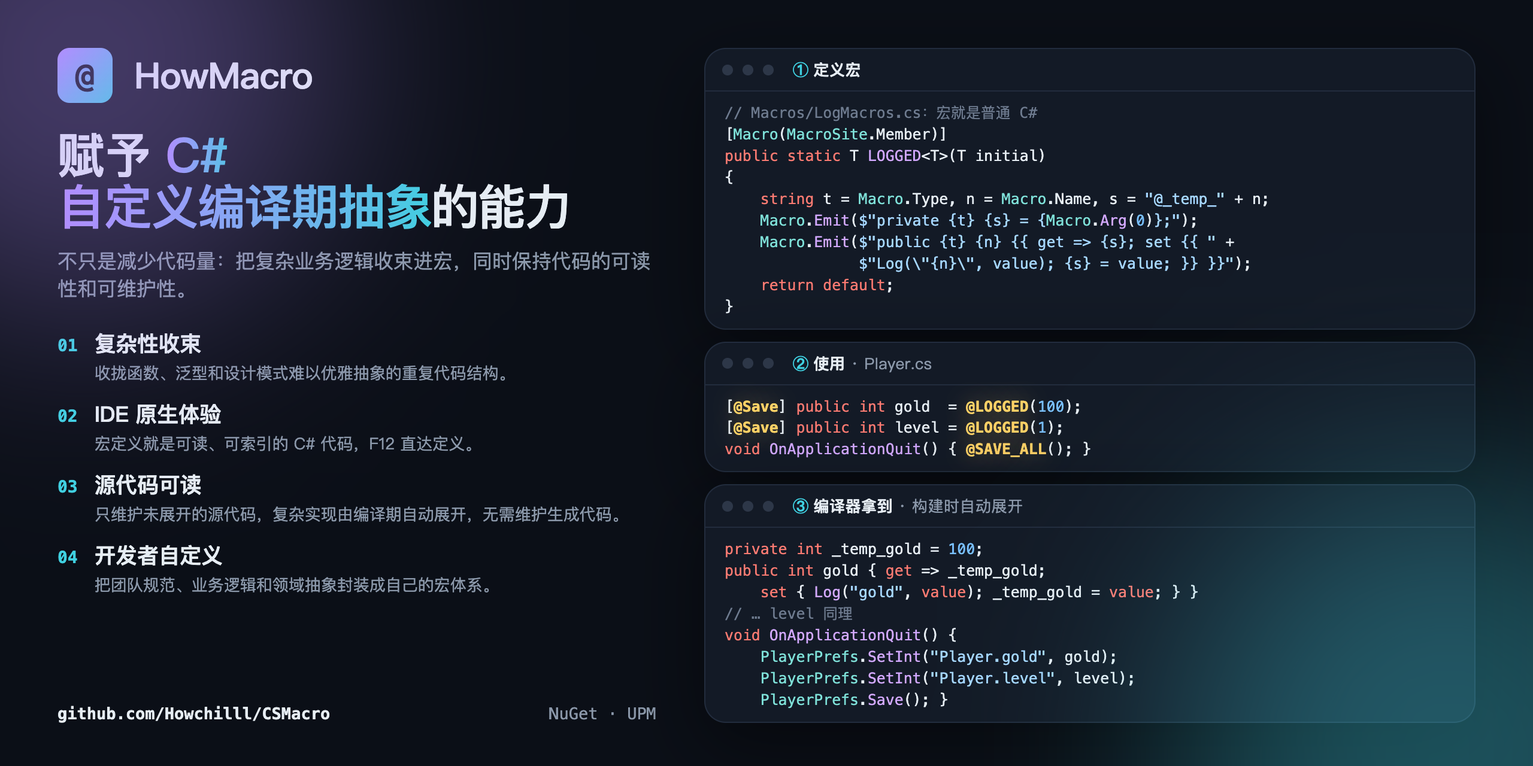
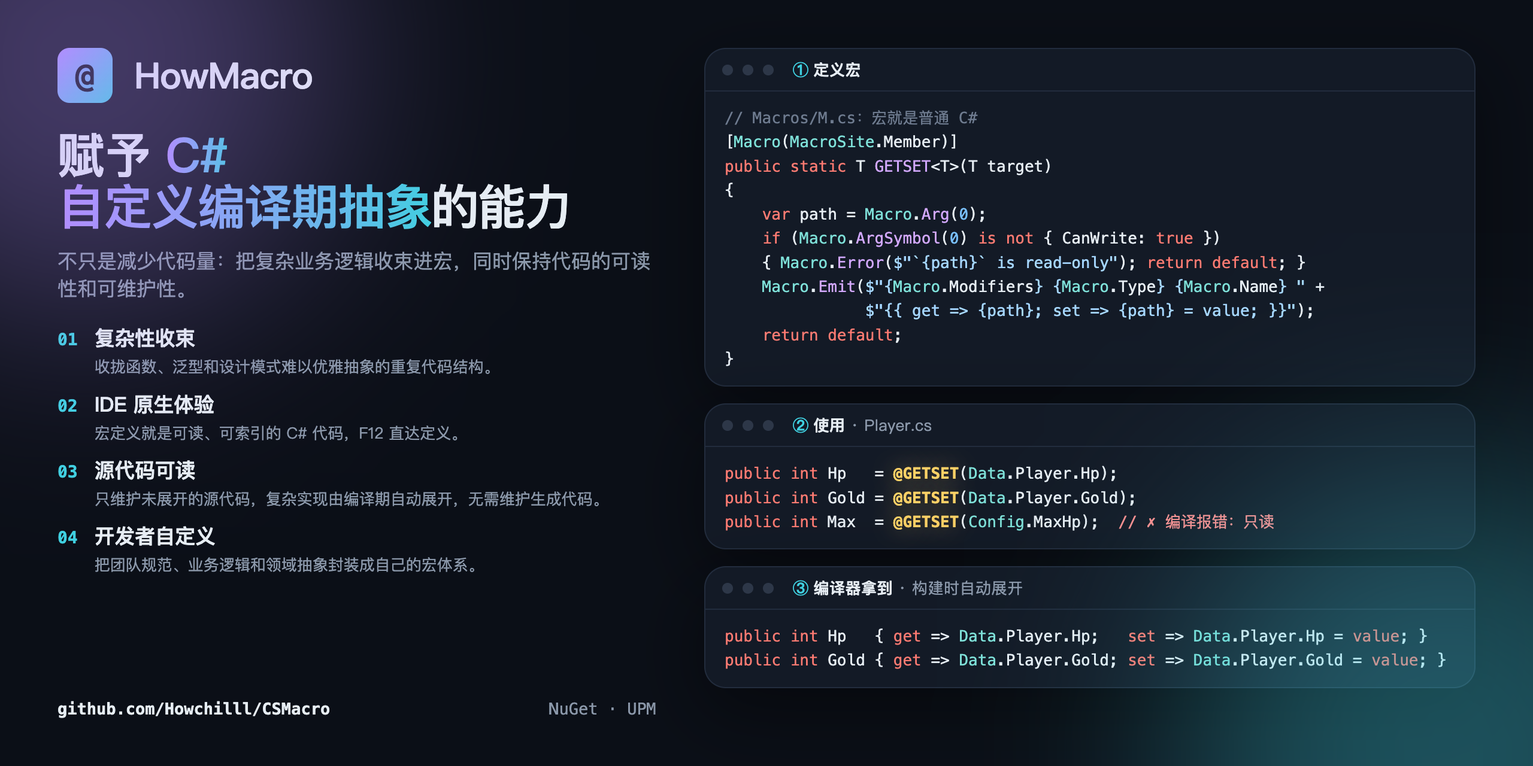
Promo images: use the GETSET example instead of Save

diff --git a/docs/promo/banner.html b/docs/promo/banner.html
@@ -5,11 +5,11 @@
   .left { display: flex; flex-direction: column; }
   .mark { width: 46px; height: 46px; font-size: 27px; } .name { font-size: 30px; }
   h1 { font-size: 40px; margin-top: 22px; } .tag { font-size: 16.5px; margin-top: 12px; }
-  .vals { margin-top: 22px; row-gap: 12px; } .val .n { font-size: 14px; } .val h3 { font-size: 18px; } .val p { font-size: 13.5px; }
-  .foot { margin-top: auto; display: flex; justify-content: space-between; font-size: 13.5px; }
-  .right { display: flex; flex-direction: column; gap: 10px; }
+  .vals { margin-top: 18px; row-gap: 10px; } .val .n { font-size: 14px; } .val h3 { font-size: 17px; } .val p { font-size: 13px; }
+  .foot { margin-top: auto; padding-top: 10px; display: flex; justify-content: space-between; font-size: 13.5px; }
+  .right { display: flex; flex-direction: column; gap: 14px; min-width: 0; }
   .card .bar { font-size: 13px; padding: 8px 14px; } .dot { width: 9px; height: 9px; }
-  pre { font-size: 12.4px; line-height: 1.45; padding: 9px 16px; }
+  pre { font-size: 13px; line-height: 1.55; padding: 12px 16px; }
 </style></head><body>
 <div class="glow g1"></div><div class="glow g2"></div>
 <div class="left">
@@ -19,31 +19,26 @@
 <div class="vals"><div class="val"><span class="n">01</span><h3>Compress complexity</h3><p>Fold repeated structures that functions, generics and patterns can't abstract cleanly.</p></div>
 <div class="val"><span class="n">02</span><h3>IDE&#8209;native</h3><p>Macros are plain C#: readable, indexed, F12 jumps to the definition.</p></div>
 <div class="val"><span class="n">03</span><h3>Source stays yours</h3><p>You maintain the unexpanded code. Expansion happens at build time; no generated code to keep.</p></div>
-<div class="val"><span class="n">04</span><h3>Your own macro system</h3><p>Package team conventions, business rules and domain abstractions as macros.</p></div></div>
+<div class="val"><span class="n">04</span><h3>Your own macro system</h3><p>Package team conventions, business rules and domain logic as macros.</p></div></div>
 <div class="foot"><span><b>github.com/Howchilll/CSMacro</b></span><span>NuGet · UPM</span></div>
 </div>
 <div class="right"><div class="card c1"><div class="bar"><span class="dot"></span><span class="dot"></span><span class="dot"></span><span class="label"><span class="step">①</span><b>Define</b></span></div>
-<pre><span class="com">// Macros/LogMacros.cs: a macro is plain C#</span>
+<pre><span class="com">// Macros/M.cs: a macro is plain C#</span>
 [<span class="ty">Macro</span>(<span class="ty">MacroSite</span>.Member)]
-<span class="kw">public static</span> T <span class="fn">LOGGED</span>&lt;T&gt;(T initial)
+<span class="kw">public static</span> T <span class="fn">GETSET</span>&lt;T&gt;(T target)
 {
-    <span class="kw">string</span> t = <span class="ty">Macro</span>.Type, n = <span class="ty">Macro</span>.Name, s = <span class="str">"@_temp_"</span> + n;
-    <span class="ty">Macro</span>.<span class="fn">Emit</span>(<span class="str">$"private {t} {s} = {</span><span class="ty">Macro</span>.<span class="fn">Arg</span>(<span class="num">0</span>)<span class="str">};"</span>);
-    <span class="ty">Macro</span>.<span class="fn">Emit</span>(<span class="str">$"public {t} {n} {{ get =&gt; {s}; set {{ "</span> +
-               <span class="str">$"Log(\"{n}\", value); {s} = value; }} }}"</span>);
+    <span class="kw">var</span> path = <span class="ty">Macro</span>.<span class="fn">Arg</span>(<span class="num">0</span>);
+    <span class="kw">if</span> (<span class="ty">Macro</span>.<span class="fn">ArgSymbol</span>(<span class="num">0</span>) <span class="kw">is not</span> { CanWrite: <span class="kw">true</span> })
+    { <span class="ty">Macro</span>.<span class="fn">Error</span>(<span class="str">$"`{path}` is read-only"</span>); <span class="kw">return default</span>; }
+    <span class="ty">Macro</span>.<span class="fn">Emit</span>(<span class="str">$"{</span><span class="ty">Macro</span>.Modifiers<span class="str">} {</span><span class="ty">Macro</span>.Type<span class="str">} {</span><span class="ty">Macro</span>.Name<span class="str">} "</span> +
+               <span class="str">$"{{ get =&gt; {path}; set =&gt; {path} = value; }}"</span>);
     <span class="kw">return default</span>;
 }</pre></div>
 <div class="card c2"><div class="bar"><span class="dot"></span><span class="dot"></span><span class="dot"></span><span class="label"><span class="step">②</span><b>Use</b> · Player.cs</span></div>
-<pre>[<span class="m">@Save</span>] <span class="kw">public int</span> gold  = <span class="m">@LOGGED</span>(<span class="num">100</span>);
-[<span class="m">@Save</span>] <span class="kw">public int</span> level = <span class="m">@LOGGED</span>(<span class="num">1</span>);
-<span class="kw">void</span> <span class="fn">OnApplicationQuit</span>() { <span class="m">@SAVE_ALL</span>(); }</pre></div>
+<pre><span class="kw">public int</span> Hp   = <span class="m">@GETSET</span>(<span class="ty">Data</span>.Player.Hp);
+<span class="kw">public int</span> Gold = <span class="m">@GETSET</span>(<span class="ty">Data</span>.Player.Gold);
+<span class="kw">public int</span> Max  = <span class="m">@GETSET</span>(<span class="ty">Config</span>.MaxHp);  <span class="err">// ✗ compile error: read-only</span></pre></div>
 <div class="card c3"><div class="bar"><span class="dot"></span><span class="dot"></span><span class="dot"></span><span class="label"><span class="step">③</span><b>Compiler gets</b> · expanded at build time</span></div>
-<pre><span class="kw">private int</span> _temp_gold = <span class="num">100</span>;
-<span class="kw">public int</span> gold { <span class="kw">get</span> =&gt; _temp_gold;
-    <span class="kw">set</span> { <span class="fn">Log</span>(<span class="str">"gold"</span>, <span class="kw">value</span>); _temp_gold = <span class="kw">value</span>; } }
-<span class="com">// … level likewise</span>
-<span class="kw">void</span> <span class="fn">OnApplicationQuit</span>() {
-    <span class="ty">PlayerPrefs</span>.<span class="fn">SetInt</span>(<span class="str">"Player.gold"</span>, gold);
-    <span class="ty">PlayerPrefs</span>.<span class="fn">SetInt</span>(<span class="str">"Player.level"</span>, level);
-    <span class="ty">PlayerPrefs</span>.<span class="fn">Save</span>(); }</pre></div></div>
+<pre><span class="kw">public int</span> Hp   { <span class="kw">get</span> =&gt; <span class="ty">Data</span>.Player.Hp;   <span class="kw">set</span> =&gt; <span class="ty">Data</span>.Player.Hp = <span class="kw">value</span>; }
+<span class="kw">public int</span> Gold { <span class="kw">get</span> =&gt; <span class="ty">Data</span>.Player.Gold; <span class="kw">set</span> =&gt; <span class="ty">Data</span>.Player.Gold = <span class="kw">value</span>; }</pre></div></div>
 </body></html>

diff --git a/docs/promo/ig-en.html b/docs/promo/ig-en.html
@@ -8,7 +8,7 @@
   .val .n { font-size: 16px; } .val h3 { font-size: 22px; } .val p { font-size: 16px; }
   .right { margin-top: 24px; display: flex; flex-direction: column; gap: 12px; }
   .card .bar { font-size: 16px; padding: 10px 18px; }
-  pre { font-size: 15px; line-height: 1.5; padding: 10px 20px; }
+  pre { font-size: 17px; line-height: 1.6; padding: 14px 22px; }
   .foot { margin-top: auto; padding-top: 12px; display: flex; justify-content: space-between; font-size: 19px; }
 </style></head><body>
 <div class="glow g1"></div><div class="glow g2"></div>
@@ -18,30 +18,25 @@
 <div class="vals"><div class="val"><span class="n">01</span><h3>Compress complexity</h3><p>Fold repeated structures that functions, generics and patterns can't abstract cleanly.</p></div>
 <div class="val"><span class="n">02</span><h3>IDE&#8209;native</h3><p>Macros are plain C#: readable, indexed, F12 jumps to the definition.</p></div>
 <div class="val"><span class="n">03</span><h3>Source stays yours</h3><p>You maintain the unexpanded code. Expansion happens at build time; no generated code to keep.</p></div>
-<div class="val"><span class="n">04</span><h3>Your own macro system</h3><p>Package team conventions, business rules and domain abstractions as macros.</p></div></div>
+<div class="val"><span class="n">04</span><h3>Your own macro system</h3><p>Package team conventions, business rules and domain logic as macros.</p></div></div>
 <div class="right"><div class="card c1"><div class="bar"><span class="dot"></span><span class="dot"></span><span class="dot"></span><span class="label"><span class="step">①</span><b>Define</b></span></div>
-<pre><span class="com">// Macros/LogMacros.cs: a macro is plain C#</span>
+<pre><span class="com">// Macros/M.cs: a macro is plain C#</span>
 [<span class="ty">Macro</span>(<span class="ty">MacroSite</span>.Member)]
-<span class="kw">public static</span> T <span class="fn">LOGGED</span>&lt;T&gt;(T initial)
+<span class="kw">public static</span> T <span class="fn">GETSET</span>&lt;T&gt;(T target)
 {
-    <span class="kw">string</span> t = <span class="ty">Macro</span>.Type, n = <span class="ty">Macro</span>.Name, s = <span class="str">"@_temp_"</span> + n;
-    <span class="ty">Macro</span>.<span class="fn">Emit</span>(<span class="str">$"private {t} {s} = {</span><span class="ty">Macro</span>.<span class="fn">Arg</span>(<span class="num">0</span>)<span class="str">};"</span>);
-    <span class="ty">Macro</span>.<span class="fn">Emit</span>(<span class="str">$"public {t} {n} {{ get =&gt; {s}; set {{ "</span> +
-               <span class="str">$"Log(\"{n}\", value); {s} = value; }} }}"</span>);
+    <span class="kw">var</span> path = <span class="ty">Macro</span>.<span class="fn">Arg</span>(<span class="num">0</span>);
+    <span class="kw">if</span> (<span class="ty">Macro</span>.<span class="fn">ArgSymbol</span>(<span class="num">0</span>) <span class="kw">is not</span> { CanWrite: <span class="kw">true</span> })
+    { <span class="ty">Macro</span>.<span class="fn">Error</span>(<span class="str">$"`{path}` is read-only"</span>); <span class="kw">return default</span>; }
+    <span class="ty">Macro</span>.<span class="fn">Emit</span>(<span class="str">$"{</span><span class="ty">Macro</span>.Modifiers<span class="str">} {</span><span class="ty">Macro</span>.Type<span class="str">} {</span><span class="ty">Macro</span>.Name<span class="str">} "</span> +
+               <span class="str">$"{{ get =&gt; {path}; set =&gt; {path} = value; }}"</span>);
     <span class="kw">return default</span>;
 }</pre></div>
 <div class="card c2"><div class="bar"><span class="dot"></span><span class="dot"></span><span class="dot"></span><span class="label"><span class="step">②</span><b>Use</b> · Player.cs</span></div>
-<pre>[<span class="m">@Save</span>] <span class="kw">public int</span> gold  = <span class="m">@LOGGED</span>(<span class="num">100</span>);
-[<span class="m">@Save</span>] <span class="kw">public int</span> level = <span class="m">@LOGGED</span>(<span class="num">1</span>);
-<span class="kw">void</span> <span class="fn">OnApplicationQuit</span>() { <span class="m">@SAVE_ALL</span>(); }</pre></div>
+<pre><span class="kw">public int</span> Hp   = <span class="m">@GETSET</span>(<span class="ty">Data</span>.Player.Hp);
+<span class="kw">public int</span> Gold = <span class="m">@GETSET</span>(<span class="ty">Data</span>.Player.Gold);
+<span class="kw">public int</span> Max  = <span class="m">@GETSET</span>(<span class="ty">Config</span>.MaxHp);  <span class="err">// ✗ compile error: read-only</span></pre></div>
 <div class="card c3"><div class="bar"><span class="dot"></span><span class="dot"></span><span class="dot"></span><span class="label"><span class="step">③</span><b>Compiler gets</b> · expanded at build time</span></div>
-<pre><span class="kw">private int</span> _temp_gold = <span class="num">100</span>;
-<span class="kw">public int</span> gold { <span class="kw">get</span> =&gt; _temp_gold;
-    <span class="kw">set</span> { <span class="fn">Log</span>(<span class="str">"gold"</span>, <span class="kw">value</span>); _temp_gold = <span class="kw">value</span>; } }
-<span class="com">// … level likewise</span>
-<span class="kw">void</span> <span class="fn">OnApplicationQuit</span>() {
-    <span class="ty">PlayerPrefs</span>.<span class="fn">SetInt</span>(<span class="str">"Player.gold"</span>, gold);
-    <span class="ty">PlayerPrefs</span>.<span class="fn">SetInt</span>(<span class="str">"Player.level"</span>, level);
-    <span class="ty">PlayerPrefs</span>.<span class="fn">Save</span>(); }</pre></div></div>
+<pre><span class="kw">public int</span> Hp   { <span class="kw">get</span> =&gt; <span class="ty">Data</span>.Player.Hp;   <span class="kw">set</span> =&gt; <span class="ty">Data</span>.Player.Hp = <span class="kw">value</span>; }
+<span class="kw">public int</span> Gold { <span class="kw">get</span> =&gt; <span class="ty">Data</span>.Player.Gold; <span class="kw">set</span> =&gt; <span class="ty">Data</span>.Player.Gold = <span class="kw">value</span>; }</pre></div></div>
 <div class="foot"><span><b>github.com/Howchilll/CSMacro</b></span><span>NuGet · UPM</span></div>
 </body></html>

diff --git a/docs/promo/banner-zh.html b/docs/promo/banner-zh.html
@@ -5,11 +5,11 @@
   .left { display: flex; flex-direction: column; }
   .mark { width: 46px; height: 46px; font-size: 27px; } .name { font-size: 30px; }
   h1 { font-size: 40px; margin-top: 22px; } .tag { font-size: 16.5px; margin-top: 12px; }
-  .vals { margin-top: 22px; row-gap: 12px; } .val .n { font-size: 14px; } .val h3 { font-size: 18px; } .val p { font-size: 13.5px; }
-  .foot { margin-top: auto; display: flex; justify-content: space-between; font-size: 13.5px; }
-  .right { display: flex; flex-direction: column; gap: 10px; }
+  .vals { margin-top: 18px; row-gap: 10px; } .val .n { font-size: 14px; } .val h3 { font-size: 17px; } .val p { font-size: 13px; }
+  .foot { margin-top: auto; padding-top: 10px; display: flex; justify-content: space-between; font-size: 13.5px; }
+  .right { display: flex; flex-direction: column; gap: 14px; min-width: 0; }
   .card .bar { font-size: 13px; padding: 8px 14px; } .dot { width: 9px; height: 9px; }
-  pre { font-size: 12.4px; line-height: 1.45; padding: 9px 16px; }
+  pre { font-size: 13px; line-height: 1.55; padding: 12px 16px; }
 </style></head><body>
 <div class="glow g1"></div><div class="glow g2"></div>
 <div class="left">
@@ -23,27 +23,22 @@
 <div class="foot"><span><b>github.com/Howchilll/CSMacro</b></span><span>NuGet · UPM</span></div>
 </div>
 <div class="right"><div class="card c1"><div class="bar"><span class="dot"></span><span class="dot"></span><span class="dot"></span><span class="label"><span class="step">①</span><b>定义宏</b></span></div>
-<pre><span class="com">// Macros/LogMacros.cs：宏就是普通 C#</span>
+<pre><span class="com">// Macros/M.cs：宏就是普通 C#</span>
 [<span class="ty">Macro</span>(<span class="ty">MacroSite</span>.Member)]
-<span class="kw">public static</span> T <span class="fn">LOGGED</span>&lt;T&gt;(T initial)
+<span class="kw">public static</span> T <span class="fn">GETSET</span>&lt;T&gt;(T target)
 {
-    <span class="kw">string</span> t = <span class="ty">Macro</span>.Type, n = <span class="ty">Macro</span>.Name, s = <span class="str">"@_temp_"</span> + n;
-    <span class="ty">Macro</span>.<span class="fn">Emit</span>(<span class="str">$"private {t} {s} = {</span><span class="ty">Macro</span>.<span class="fn">Arg</span>(<span class="num">0</span>)<span class="str">};"</span>);
-    <span class="ty">Macro</span>.<span class="fn">Emit</span>(<span class="str">$"public {t} {n} {{ get =&gt; {s}; set {{ "</span> +
-               <span class="str">$"Log(\"{n}\", value); {s} = value; }} }}"</span>);
+    <span class="kw">var</span> path = <span class="ty">Macro</span>.<span class="fn">Arg</span>(<span class="num">0</span>);
+    <span class="kw">if</span> (<span class="ty">Macro</span>.<span class="fn">ArgSymbol</span>(<span class="num">0</span>) <span class="kw">is not</span> { CanWrite: <span class="kw">true</span> })
+    { <span class="ty">Macro</span>.<span class="fn">Error</span>(<span class="str">$"`{path}` is read-only"</span>); <span class="kw">return default</span>; }
+    <span class="ty">Macro</span>.<span class="fn">Emit</span>(<span class="str">$"{</span><span class="ty">Macro</span>.Modifiers<span class="str">} {</span><span class="ty">Macro</span>.Type<span class="str">} {</span><span class="ty">Macro</span>.Name<span class="str">} "</span> +
+               <span class="str">$"{{ get =&gt; {path}; set =&gt; {path} = value; }}"</span>);
     <span class="kw">return default</span>;
 }</pre></div>
 <div class="card c2"><div class="bar"><span class="dot"></span><span class="dot"></span><span class="dot"></span><span class="label"><span class="step">②</span><b>使用</b> · Player.cs</span></div>
-<pre>[<span class="m">@Save</span>] <span class="kw">public int</span> gold  = <span class="m">@LOGGED</span>(<span class="num">100</span>);
-[<span class="m">@Save</span>] <span class="kw">public int</span> level = <span class="m">@LOGGED</span>(<span class="num">1</span>);
-<span class="kw">void</span> <span class="fn">OnApplicationQuit</span>() { <span class="m">@SAVE_ALL</span>(); }</pre></div>
+<pre><span class="kw">public int</span> Hp   = <span class="m">@GETSET</span>(<span class="ty">Data</span>.Player.Hp);
+<span class="kw">public int</span> Gold = <span class="m">@GETSET</span>(<span class="ty">Data</span>.Player.Gold);
+<span class="kw">public int</span> Max  = <span class="m">@GETSET</span>(<span class="ty">Config</span>.MaxHp);  <span class="err">// ✗ 编译报错：只读</span></pre></div>
 <div class="card c3"><div class="bar"><span class="dot"></span><span class="dot"></span><span class="dot"></span><span class="label"><span class="step">③</span><b>编译器拿到</b> · 构建时自动展开</span></div>
-<pre><span class="kw">private int</span> _temp_gold = <span class="num">100</span>;
-<span class="kw">public int</span> gold { <span class="kw">get</span> =&gt; _temp_gold;
-    <span class="kw">set</span> { <span class="fn">Log</span>(<span class="str">"gold"</span>, <span class="kw">value</span>); _temp_gold = <span class="kw">value</span>; } }
-<span class="com">// … level 同理</span>
-<span class="kw">void</span> <span class="fn">OnApplicationQuit</span>() {
-    <span class="ty">PlayerPrefs</span>.<span class="fn">SetInt</span>(<span class="str">"Player.gold"</span>, gold);
-    <span class="ty">PlayerPrefs</span>.<span class="fn">SetInt</span>(<span class="str">"Player.level"</span>, level);
-    <span class="ty">PlayerPrefs</span>.<span class="fn">Save</span>(); }</pre></div></div>
+<pre><span class="kw">public int</span> Hp   { <span class="kw">get</span> =&gt; <span class="ty">Data</span>.Player.Hp;   <span class="kw">set</span> =&gt; <span class="ty">Data</span>.Player.Hp = <span class="kw">value</span>; }
+<span class="kw">public int</span> Gold { <span class="kw">get</span> =&gt; <span class="ty">Data</span>.Player.Gold; <span class="kw">set</span> =&gt; <span class="ty">Data</span>.Player.Gold = <span class="kw">value</span>; }</pre></div></div>
 </body></html>

diff --git a/docs/promo/ig-zh.html b/docs/promo/ig-zh.html
@@ -8,7 +8,7 @@
   .val .n { font-size: 16px; } .val h3 { font-size: 22px; } .val p { font-size: 16px; }
   .right { margin-top: 24px; display: flex; flex-direction: column; gap: 12px; }
   .card .bar { font-size: 16px; padding: 10px 18px; }
-  pre { font-size: 15px; line-height: 1.5; padding: 10px 20px; }
+  pre { font-size: 17px; line-height: 1.6; padding: 14px 22px; }
   .foot { margin-top: auto; padding-top: 12px; display: flex; justify-content: space-between; font-size: 19px; }
 </style></head><body>
 <div class="glow g1"></div><div class="glow g2"></div>
@@ -20,28 +20,23 @@
 <div class="val"><span class="n">03</span><h3>源代码可读</h3><p>只维护未展开的源代码，复杂实现由编译期自动展开，无需维护生成代码。</p></div>
 <div class="val"><span class="n">04</span><h3>开发者自定义</h3><p>把团队规范、业务逻辑和领域抽象封装成自己的宏体系。</p></div></div>
 <div class="right"><div class="card c1"><div class="bar"><span class="dot"></span><span class="dot"></span><span class="dot"></span><span class="label"><span class="step">①</span><b>定义宏</b></span></div>
-<pre><span class="com">// Macros/LogMacros.cs：宏就是普通 C#</span>
+<pre><span class="com">// Macros/M.cs：宏就是普通 C#</span>
 [<span class="ty">Macro</span>(<span class="ty">MacroSite</span>.Member)]
-<span class="kw">public static</span> T <span class="fn">LOGGED</span>&lt;T&gt;(T initial)
+<span class="kw">public static</span> T <span class="fn">GETSET</span>&lt;T&gt;(T target)
 {
-    <span class="kw">string</span> t = <span class="ty">Macro</span>.Type, n = <span class="ty">Macro</span>.Name, s = <span class="str">"@_temp_"</span> + n;
-    <span class="ty">Macro</span>.<span class="fn">Emit</span>(<span class="str">$"private {t} {s} = {</span><span class="ty">Macro</span>.<span class="fn">Arg</span>(<span class="num">0</span>)<span class="str">};"</span>);
-    <span class="ty">Macro</span>.<span class="fn">Emit</span>(<span class="str">$"public {t} {n} {{ get =&gt; {s}; set {{ "</span> +
-               <span class="str">$"Log(\"{n}\", value); {s} = value; }} }}"</span>);
+    <span class="kw">var</span> path = <span class="ty">Macro</span>.<span class="fn">Arg</span>(<span class="num">0</span>);
+    <span class="kw">if</span> (<span class="ty">Macro</span>.<span class="fn">ArgSymbol</span>(<span class="num">0</span>) <span class="kw">is not</span> { CanWrite: <span class="kw">true</span> })
+    { <span class="ty">Macro</span>.<span class="fn">Error</span>(<span class="str">$"`{path}` is read-only"</span>); <span class="kw">return default</span>; }
+    <span class="ty">Macro</span>.<span class="fn">Emit</span>(<span class="str">$"{</span><span class="ty">Macro</span>.Modifiers<span class="str">} {</span><span class="ty">Macro</span>.Type<span class="str">} {</span><span class="ty">Macro</span>.Name<span class="str">} "</span> +
+               <span class="str">$"{{ get =&gt; {path}; set =&gt; {path} = value; }}"</span>);
     <span class="kw">return default</span>;
 }</pre></div>
 <div class="card c2"><div class="bar"><span class="dot"></span><span class="dot"></span><span class="dot"></span><span class="label"><span class="step">②</span><b>使用</b> · Player.cs</span></div>
-<pre>[<span class="m">@Save</span>] <span class="kw">public int</span> gold  = <span class="m">@LOGGED</span>(<span class="num">100</span>);
-[<span class="m">@Save</span>] <span class="kw">public int</span> level = <span class="m">@LOGGED</span>(<span class="num">1</span>);
-<span class="kw">void</span> <span class="fn">OnApplicationQuit</span>() { <span class="m">@SAVE_ALL</span>(); }</pre></div>
+<pre><span class="kw">public int</span> Hp   = <span class="m">@GETSET</span>(<span class="ty">Data</span>.Player.Hp);
+<span class="kw">public int</span> Gold = <span class="m">@GETSET</span>(<span class="ty">Data</span>.Player.Gold);
+<span class="kw">public int</span> Max  = <span class="m">@GETSET</span>(<span class="ty">Config</span>.MaxHp);  <span class="err">// ✗ 编译报错：只读</span></pre></div>
 <div class="card c3"><div class="bar"><span class="dot"></span><span class="dot"></span><span class="dot"></span><span class="label"><span class="step">③</span><b>编译器拿到</b> · 构建时自动展开</span></div>
-<pre><span class="kw">private int</span> _temp_gold = <span class="num">100</span>;
-<span class="kw">public int</span> gold { <span class="kw">get</span> =&gt; _temp_gold;
-    <span class="kw">set</span> { <span class="fn">Log</span>(<span class="str">"gold"</span>, <span class="kw">value</span>); _temp_gold = <span class="kw">value</span>; } }
-<span class="com">// … level 同理</span>
-<span class="kw">void</span> <span class="fn">OnApplicationQuit</span>() {
-    <span class="ty">PlayerPrefs</span>.<span class="fn">SetInt</span>(<span class="str">"Player.gold"</span>, gold);
-    <span class="ty">PlayerPrefs</span>.<span class="fn">SetInt</span>(<span class="str">"Player.level"</span>, level);
-    <span class="ty">PlayerPrefs</span>.<span class="fn">Save</span>(); }</pre></div></div>
+<pre><span class="kw">public int</span> Hp   { <span class="kw">get</span> =&gt; <span class="ty">Data</span>.Player.Hp;   <span class="kw">set</span> =&gt; <span class="ty">Data</span>.Player.Hp = <span class="kw">value</span>; }
+<span class="kw">public int</span> Gold { <span class="kw">get</span> =&gt; <span class="ty">Data</span>.Player.Gold; <span class="kw">set</span> =&gt; <span class="ty">Data</span>.Player.Gold = <span class="kw">value</span>; }</pre></div></div>
 <div class="foot"><span><b>github.com/Howchilll/CSMacro</b></span><span>NuGet · UPM</span></div>
 </body></html>

diff --git a/docs/promo/promo.css b/docs/promo/promo.css
@@ -46,3 +46,4 @@ pre { font-family: Menlo, "SF Mono", monospace; line-height: 1.6; padding: 18px 
 .val h3 { font-weight: 700; letter-spacing: -0.01em; }
 .val p { grid-column: 2; color: var(--muted); line-height: 1.4; margin-top: 3px; }
 .step { color: var(--a2); font-family: Menlo, monospace; font-weight: 700; margin-right: 4px; }
+.err { color: #ff8f8f; }

diff --git a/docs/promo/build.py b/docs/promo/build.py
@@ -8,28 +8,23 @@ CHROME = "/Applications/Google Chrome.app/Contents/MacOS/Google Chrome"
 def define(comment):
     return f'''<span class="com">// {comment}</span>
 [<span class="ty">Macro</span>(<span class="ty">MacroSite</span>.Member)]
-<span class="kw">public static</span> T <span class="fn">LOGGED</span>&lt;T&gt;(T initial)
+<span class="kw">public static</span> T <span class="fn">GETSET</span>&lt;T&gt;(T target)
 {{
-    <span class="kw">string</span> t = <span class="ty">Macro</span>.Type, n = <span class="ty">Macro</span>.Name, s = <span class="str">"@_temp_"</span> + n;
-    <span class="ty">Macro</span>.<span class="fn">Emit</span>(<span class="str">$"private {{t}} {{s}} = {{</span><span class="ty">Macro</span>.<span class="fn">Arg</span>(<span class="num">0</span>)<span class="str">}};"</span>);
-    <span class="ty">Macro</span>.<span class="fn">Emit</span>(<span class="str">$"public {{t}} {{n}} {{{{ get =&gt; {{s}}; set {{{{ "</span> +
-               <span class="str">$"Log(\\"{{n}}\\", value); {{s}} = value; }}}} }}}}"</span>);
+    <span class="kw">var</span> path = <span class="ty">Macro</span>.<span class="fn">Arg</span>(<span class="num">0</span>);
+    <span class="kw">if</span> (<span class="ty">Macro</span>.<span class="fn">ArgSymbol</span>(<span class="num">0</span>) <span class="kw">is not</span> {{ CanWrite: <span class="kw">true</span> }})
+    {{ <span class="ty">Macro</span>.<span class="fn">Error</span>(<span class="str">$"`{{path}}` is read-only"</span>); <span class="kw">return default</span>; }}
+    <span class="ty">Macro</span>.<span class="fn">Emit</span>(<span class="str">$"{{</span><span class="ty">Macro</span>.Modifiers<span class="str">}} {{</span><span class="ty">Macro</span>.Type<span class="str">}} {{</span><span class="ty">Macro</span>.Name<span class="str">}} "</span> +
+               <span class="str">$"{{{{ get =&gt; {{path}}; set =&gt; {{path}} = value; }}}}"</span>);
     <span class="kw">return default</span>;
 }}'''
 
-USE = '''[<span class="m">@Save</span>] <span class="kw">public int</span> gold  = <span class="m">@LOGGED</span>(<span class="num">100</span>);
-[<span class="m">@Save</span>] <span class="kw">public int</span> level = <span class="m">@LOGGED</span>(<span class="num">1</span>);
-<span class="kw">void</span> <span class="fn">OnApplicationQuit</span>() { <span class="m">@SAVE_ALL</span>(); }'''
+def use(err):
+    return f'''<span class="kw">public int</span> Hp   = <span class="m">@GETSET</span>(<span class="ty">Data</span>.Player.Hp);
+<span class="kw">public int</span> Gold = <span class="m">@GETSET</span>(<span class="ty">Data</span>.Player.Gold);
+<span class="kw">public int</span> Max  = <span class="m">@GETSET</span>(<span class="ty">Config</span>.MaxHp);  <span class="err">// ✗ {err}</span>'''
 
-def gets(likewise):
-    return f'''<span class="kw">private int</span> _temp_gold = <span class="num">100</span>;
-<span class="kw">public int</span> gold {{ <span class="kw">get</span> =&gt; _temp_gold;
-    <span class="kw">set</span> {{ <span class="fn">Log</span>(<span class="str">"gold"</span>, <span class="kw">value</span>); _temp_gold = <span class="kw">value</span>; }} }}
-<span class="com">// {likewise}</span>
-<span class="kw">void</span> <span class="fn">OnApplicationQuit</span>() {{
-    <span class="ty">PlayerPrefs</span>.<span class="fn">SetInt</span>(<span class="str">"Player.gold"</span>, gold);
-    <span class="ty">PlayerPrefs</span>.<span class="fn">SetInt</span>(<span class="str">"Player.level"</span>, level);
-    <span class="ty">PlayerPrefs</span>.<span class="fn">Save</span>(); }}'''
+GETS = '''<span class="kw">public int</span> Hp   { <span class="kw">get</span> =&gt; <span class="ty">Data</span>.Player.Hp;   <span class="kw">set</span> =&gt; <span class="ty">Data</span>.Player.Hp = <span class="kw">value</span>; }
+<span class="kw">public int</span> Gold { <span class="kw">get</span> =&gt; <span class="ty">Data</span>.Player.Gold; <span class="kw">set</span> =&gt; <span class="ty">Data</span>.Player.Gold = <span class="kw">value</span>; }'''
 
 TEXT = {
     "en": dict(
@@ -38,10 +33,10 @@ TEXT = {
         vals=[("Compress complexity", "Fold repeated structures that functions, generics and patterns can't abstract cleanly."),
               ("IDE&#8209;native", "Macros are plain C#: readable, indexed, F12 jumps to the definition."),
               ("Source stays yours", "You maintain the unexpanded code. Expansion happens at build time; no generated code to keep."),
-              ("Your own macro system", "Package team conventions, business rules and domain abstractions as macros.")],
-        define="Macros/LogMacros.cs: a macro is plain C#",
+              ("Your own macro system", "Package team conventions, business rules and domain logic as macros.")],
+        define="Macros/M.cs: a macro is plain C#", err="compile error: read-only",
         s1="Define", s2="Use", s3="Compiler gets", f2="Player.cs", f3="expanded at build time",
-        likewise="… level likewise", h1ig="54px"),
+        h1ig="54px"),
     "zh": dict(
         headline='赋予 <span class="grad">C#</span><br><span class="grad">自定义编译期抽象</span>的能力',
         tag="不只是减少代码量：把复杂业务逻辑收束进宏，同时保持代码的可读性和可维护性。",
@@ -49,9 +44,9 @@ TEXT = {
               ("IDE 原生体验", "宏定义就是可读、可索引的 C# 代码，F12 直达定义。"),
               ("源代码可读", "只维护未展开的源代码，复杂实现由编译期自动展开，无需维护生成代码。"),
               ("开发者自定义", "把团队规范、业务逻辑和领域抽象封装成自己的宏体系。")],
-        define="Macros/LogMacros.cs：宏就是普通 C#",
+        define="Macros/M.cs：宏就是普通 C#", err="编译报错：只读",
         s1="定义宏", s2="使用", s3="编译器拿到", f2="Player.cs", f3="构建时自动展开",
-        likewise="… level 同理", h1ig="62px"),
+        h1ig="62px"),
 }
 
 def vals_html(t):
@@ -64,8 +59,8 @@ def card(cls, step, title, file, code):
 
 def cards(t):
     return "\n".join([card("c1", "①", t["s1"], "", define(t["define"])),
-                      card("c2", "②", t["s2"], t["f2"], USE),
-                      card("c3", "③", t["s3"], t["f3"], gets(t["likewise"]))])
+                      card("c2", "②", t["s2"], t["f2"], use(t["err"])),
+                      card("c3", "③", t["s3"], t["f3"], GETS)])
 
 FOOT = '<div class="foot"><span><b>github.com/Howchilll/CSMacro</b></span><span>NuGet · UPM</span></div>'
 
@@ -77,11 +72,11 @@ def banner(t):
   .left {{ display: flex; flex-direction: column; }}
   .mark {{ width: 46px; height: 46px; font-size: 27px; }} .name {{ font-size: 30px; }}
   h1 {{ font-size: 40px; margin-top: 22px; }} .tag {{ font-size: 16.5px; margin-top: 12px; }}
-  .vals {{ margin-top: 22px; row-gap: 12px; }} .val .n {{ font-size: 14px; }} .val h3 {{ font-size: 18px; }} .val p {{ font-size: 13.5px; }}
-  .foot {{ margin-top: auto; display: flex; justify-content: space-between; font-size: 13.5px; }}
-  .right {{ display: flex; flex-direction: column; gap: 10px; }}
+  .vals {{ margin-top: 18px; row-gap: 10px; }} .val .n {{ font-size: 14px; }} .val h3 {{ font-size: 17px; }} .val p {{ font-size: 13px; }}
+  .foot {{ margin-top: auto; padding-top: 10px; display: flex; justify-content: space-between; font-size: 13.5px; }}
+  .right {{ display: flex; flex-direction: column; gap: 14px; min-width: 0; }}
   .card .bar {{ font-size: 13px; padding: 8px 14px; }} .dot {{ width: 9px; height: 9px; }}
-  pre {{ font-size: 12.4px; line-height: 1.45; padding: 9px 16px; }}
+  pre {{ font-size: 13px; line-height: 1.55; padding: 12px 16px; }}
 </style></head><body>
 <div class="glow g1"></div><div class="glow g2"></div>
 <div class="left">
@@ -105,7 +100,7 @@ def ig(t, lang):
   .val .n {{ font-size: 16px; }} .val h3 {{ font-size: 22px; }} .val p {{ font-size: 16px; }}
   .right {{ margin-top: 24px; display: flex; flex-direction: column; gap: 12px; }}
   .card .bar {{ font-size: 16px; padding: 10px 18px; }}
-  pre {{ font-size: 15px; line-height: 1.5; padding: 10px 20px; }}
+  pre {{ font-size: 17px; line-height: 1.6; padding: 14px 22px; }}
   .foot {{ margin-top: auto; padding-top: 12px; display: flex; justify-content: space-between; font-size: 19px; }}
 </style></head><body>
 <div class="glow g1"></div><div class="glow g2"></div>
